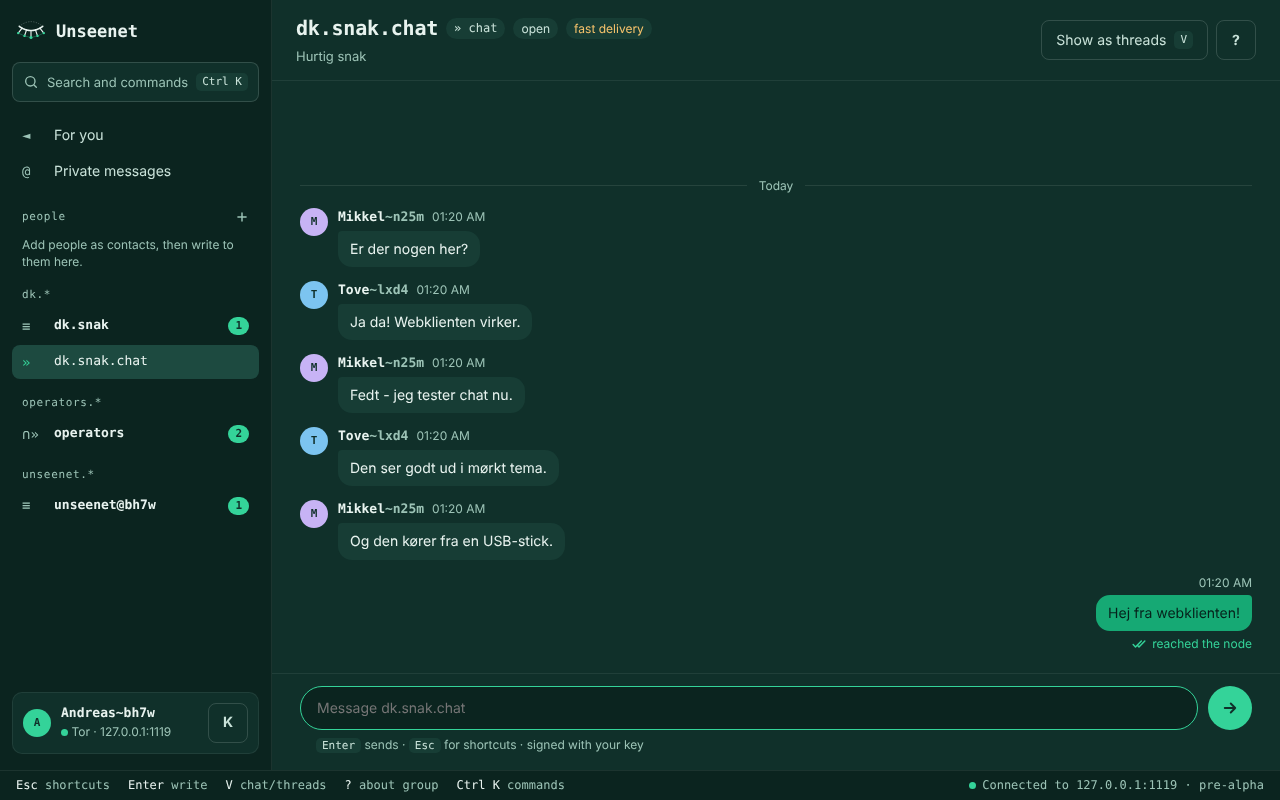
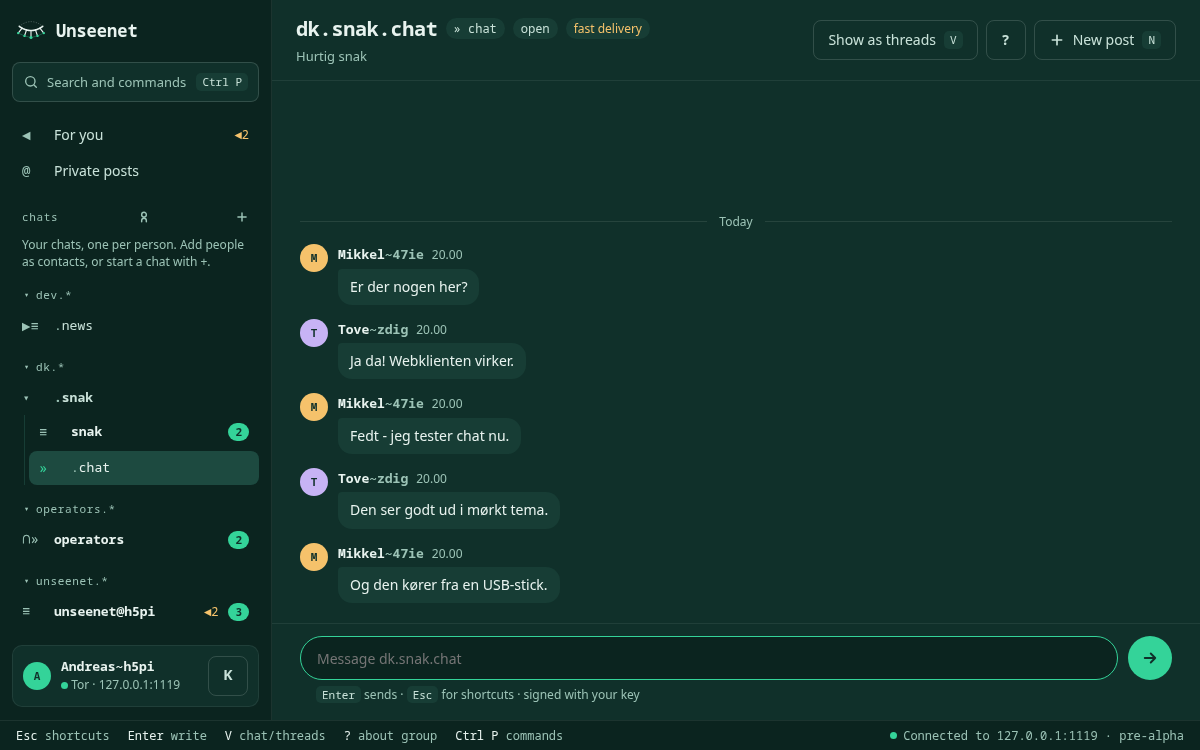
Docs and landing page: the graphical client first, and Running an entrance (#321) (#322)
Claude-Session: https://claude.ai/code/session_01D8pnKvCBrXijGBSSqn4fA5

diff --git a/docs/graphical.md b/docs/graphical.md
@@ -1,98 +1,143 @@
 # The graphical client
 
-The graphical client is Unseenet in a window on your own computer: the same
-groups, keys and vault as the terminal client, drawn with a mouse-friendly interface in the look of
-this site. It lives in its own repository,
+The graphical client is Unseenet in a window: your groups on the left,
+threads you click through, chat that looks like chat, your private posts and
+contacts, and the groups you run. It uses the same groups, keys and vault as
+the [terminal client](client.md), and lives in its own repository,
 [unseenet/unseenet-gui](https://github.com/unseenet/unseenet-gui).
 
-!!! warning "Pre-alpha prototype"
+!!! warning "Pre-alpha"
     Neither the graphical client nor the Unseenet core has had a security review.
     Play with it and pick it apart; do not rely on it to protect anyone yet.
 
-A discussion is not a chat, and the graphical client keeps them apart just like
-the terminal client. Discussion groups work like a newsreader: the posts as
-a tree, one post at a time below it, ++up++ ++down++ through the thread,
-++space++ to the next unread, and ++r++ to answer in a compose window with
-the post quoted and your signature below. Chat groups are chats. The
-group's owner decides which a group is, and ++v++ shows it the other way.
+![The graphical client: a discussion group as a thread tree, and the selected post below it](img/web-threads.png)
+
+A discussion is not a chat, and the graphical client keeps them apart.
+Discussion groups work like a newsreader: the posts as a tree, one post at a
+time below it, ++up++ ++down++ through the thread, ++space++ to the next
+unread, and ++r++ to answer in a compose window with the post quoted and your
+signature below. Chat groups are chats. The group's owner decides which a
+group is, and ++v++ shows it the other way. Everything else is in the command
+palette, ++ctrl+p++.
 
 ## Three ways to run it
 
-Portable and bootable, below - or **on the web**, in any browser, also on a
-phone or a tablet, with nothing to install: see [On the web](web.md).
+Get the newest release from
+[GitHub](https://github.com/unseenet/unseenet-gui/releases/latest). Every
+build is self-tested before it is published.
 
-Both are built from every change and self-tested; the newest are the
-[development pre-release](https://github.com/unseenet/unseenet-gui/releases/tag/dev).
+### Portable (Linux, macOS, Windows) { #portable }
 
-**Portable (Linux, macOS, Windows) · Graphical.** Unzip and start, from a USB stick or a
-folder. Tor is included, and everything stays in `data/` beside the
-programs.
+Unzip and start, from a USB stick or a folder: nothing is installed. Tor is
+included, and everything stays in `data/` beside the programs.
+`unseenet-gui-…-usb.zip` has every platform; or take only yours:
 
-- Windows: `Unseenet Graphical.exe` opens an app window (no console).
-- macOS: `Start Unseenet Graphical.command` opens an app window.
-- Linux: `sh start-graphical-linux.sh` opens Chromium, Chrome, Edge or Brave
-  without tabs if you have one, else your browser.
+- **Windows:** `Unseenet Graphical.exe` opens an app window (no console).
+- **macOS:** `Start Unseenet Graphical.command` opens an app window.
+- **Linux:** `sh start-graphical-linux.sh` opens Chromium, Chrome, Edge or
+  Brave without tabs if you have one, else your browser.
 
-**Bootable (USB, SSD etc.) · Graphical.** Write `unseenet-gui-…-x86_64.img.xz` to a USB
-stick (for example with Raspberry Pi Imager or balenaEtcher), boot from it,
-and the client starts full screen and runs from memory, as with the
-terminal client's [bootable image](bootable.md). The first screen sets up
-Wi-Fi and the keyboard. It needs 4 GB of memory. In the boot menu, *safe
-graphics* helps if the screen stays black, and *text only* starts the
-terminal client instead.
+### Bootable (USB, SSD etc.) { #bootable }
 
-The graphical client uses the same `Unseenet/` folder and `data/` as the terminal
-client's [portable build](portable.md), so the two can share a stick and a
-vault. Do not run both on the same vault at the same time.
+Write `unseenet-gui-…-x86_64.img.xz` to a USB stick (for example with
+Raspberry Pi Imager or balenaEtcher), boot from it, and the client starts
+full screen and runs from memory, touching nothing on the computer's disks,
+as with the terminal client's [bootable image](bootable.md). The first screen
+sets up Wi-Fi and the keyboard. It needs 4 GB of memory. In the boot menu,
+*safe graphics* helps if the screen stays black, and *text only* starts the
+terminal client instead. The same stick also starts the portable client on a
+running computer, with the same `data/`.
+
+### In your browser
+
+On a phone, a tablet or any computer, with nothing to install: open a web
+entrance, for example [entrance.unseenet.net](https://entrance.unseenet.net/).
+It is the same client, running in the browser, and the less hidden way in.
+Read [In your browser](web.md) first.
+
+The graphical client uses the same `Unseenet/` folder and `data/` as the
+terminal client's [portable build](portable.md), so the two can share a stick
+and a vault. Do not run both on the same vault at the same time.
+
+## First start
+
+1. **Choose a passphrase.** It encrypts your vault. There is no way to
+   recover it if you forget it.
+2. **Choose a display name.** This is just a label. Your real identity is a
+   key pair that is created for you.
+3. **Choose a node.** The client suggests one of the project's nodes at
+   random, so not everyone starts on the same one, and keeps the others as
+   backups. Choose *Another node* for an address you were given.
+
+You start in the project's groups - `unseenet`, `unseenet.announce`,
+`unseenet.help` and `unseenet.test` - so there is something to read. The
+first connection takes 10-30 seconds while Tor builds its circuits. Your
+first post waits a few minutes more, once, while your new key
+[ripens](spec/un-rfc-0025.md); the client shows how far it is. Stuck? Ask in
+`unseenet.help` - see [Getting help](help.md).
+
+## What it can do
+
+![A chat group in the graphical client](img/web-chat.png)
+
+- Read and write: threads and chats (closed groups decrypted), posts, replies
+  and chat lines in Markdown with emoji, *For you* (replies and mentions),
+  `#group` links, editing your own posts, your signature.
+- Private chats and posts with anyone, by key; contacts as an address book.
+- People: names (`@you`), profiles (an author's name opens theirs; *Your
+  profile* writes yours), ignoring people, hiding bots.
+- Groups you run: create open, moderated, channel or closed groups, invite
+  to closed ones, moderators and posters, bans, approving posts, reporting.
+- What you may not write, it says before you write: in a channel's comments,
+  under a ban, in a closed group you are not in.
+- Your vault: change its passphrase (copies elsewhere keep the old one).
+- A light and a dark theme, and phones and other narrow screens. On the
+  bootable image also the network, Wi-Fi, the keyboard, restart and shut down.
+
+Not yet - use the [terminal client](client.md): Tor bridges and several
+identities. **Updating** a stick or portable folder of the graphical client
+is not there yet either, because its builds are not signed yet: download the
+new release for now.
 
 ## How it works
 
 The graphical client draws its window with web technology, but the portable
 and the bootable one are not a website. They run on your own computer,
 nothing is hosted anywhere, and on Linux the window it opens in your browser
-only talks to the program on your own machine. (On the web the same program
-runs inside the browser instead; see [On the web](web.md).)
+only talks to the program on your own machine. (In a browser the same program
+runs inside the browser instead; see [In your browser](web.md).)
 
 ```
- window ──HTTP/WebSocket──▶ unseenet-gui ──▶ unseenet core ──Tor──▶ nodes
- (127.0.0.1 only)           (local server)   vault, keys, postage
+ window ──HTTP/WebSocket──▶ unseenet core's local API ──▶ Session ──Tor──▶ nodes
+ (127.0.0.1 only)           (UN-RFC 0046)                 vault, keys, postage
 ```
 
-`unseenet-gui` is a small local server around the core's `Session`, the
-same one the terminal client uses. It opens the same encrypted vault,
-starts the same Tor and talks to the same nodes. The window only draws what
-you see: **keys, signing, encryption and postage never leave the core**, and
-the passphrase is sent once, to unlock.
+The window talks to the core's [local client API](spec/un-rfc-0046.md), the
+same `Session` the terminal client uses: the same encrypted vault, the same
+Tor and the same nodes. The window only draws what you see: **keys, signing,
+encryption and postage never leave the core**, and the passphrase is sent
+once, to unlock.
 
 The local server guards itself against other programs and web pages on the
-same computer: it listens on 127.0.0.1 only, every start makes a random
-token that every request must carry, and a strict Content-Security-Policy
-keeps the page from loading anything from outside. What people wrote is
-shown as text, never as HTML, and links in posts are not clickable, because
-following one would leave Tor. The
+same computer: it listens on 127.0.0.1 only, every start makes a random token
+that every request must carry, and a strict Content-Security-Policy keeps the
+page from loading anything from outside. What people wrote reaches the window
+as the core's safe render tree, never as HTML, and links in posts are not
+opened by themselves, because following one would leave Tor. The
 [README](https://github.com/unseenet/unseenet-gui#security) has the details.
 
-## What it can do, and not yet
+## With pip
 
-It can unlock or create a vault, follow and leave groups, read threads and
-chats (closed groups decrypted), post, reply and chat, show *For you*,
-private messages and contacts, create groups and invite to closed ones, and
-switch between a light and a dark theme. The bootable image also sets up the
-network, Wi-Fi and keyboard, and restarts or shuts down.
-
-Not yet - use the [terminal client](client.md) for these: names (`@you`),
-moderation and member removal, reporting, ignoring people, Tor bridges,
-several identities and updating the stick.
-
-## From source
-
-You need Python 3.11 or newer:
+You need Python 3.11 or newer and Tor installed (the portable and bootable
+builds bring their own), as for the [terminal client](client.md):
 
 ```sh
-pip install "unseenet-gui @ git+https://github.com/unseenet/unseenet-gui"
+pip install unseenet-gui
 unseenet-gui            # opens your browser
-unseenet-gui --window   # in its own window (pip install "unseenet-gui[window] @ ...")
+unseenet-gui --window   # in its own window: pip install "unseenet-gui[window]"
 ```
 
 `--window` uses the system's web view in private mode, so nothing ends up in
-your browser's history.
+your browser's history. The graphical client is released on its own, with
+the minor version of the core it works with; see its
+[changelog](https://github.com/unseenet/unseenet-gui/blob/main/CHANGELOG.md).

diff --git a/docs/web.md b/docs/web.md
@@ -1,4 +1,4 @@
-# On the web (also on phones and tablets)
+# In your browser (also on phones and tablets)
 
 The [graphical client](graphical.md) also runs in an ordinary browser - on a
 phone, a tablet or any computer - with nothing to install. You open a **web
@@ -13,6 +13,13 @@ anything. Read [What you give up](#what-you-give-up) before you rely on it.
 !!! warning "Pre-alpha"
     Neither the web entrance nor the Unseenet core has had a security review.
     Play with it; do not rely on it to protect anyone yet.
+
+!!! note "Reading, not posting yet"
+    Nodes from Unseenet 0.4 take posts only from keys that have
+    [ripened](spec/un-rfc-0025.md) - a few minutes of work, once per key. The
+    browser cannot do that work yet (unseenet-gui#31), so in a browser you can
+    read everything but not post on those nodes. The portable and bootable
+    clients post as usual.
 
 ## What it is
 
@@ -98,4 +105,4 @@ Every entrance someone else runs makes Unseenet harder to block. An entrance
 runs on a small cloud machine - a free one is enough - and installs with one
 command; it can also mirror Unseenet's releases, so that the other clients
 can update over Tor when GitHub is blocked. See
-[unseenet-entrance](https://github.com/unseenet/unseenet-entrance#run-an-entrance).
+[Running an entrance](entrance/index.md).
